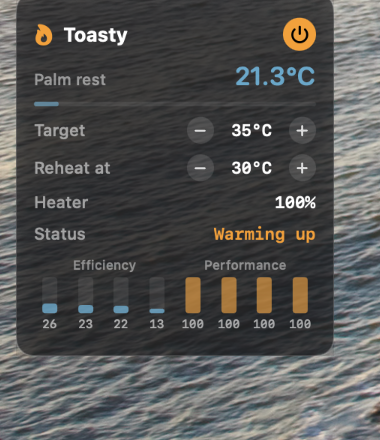
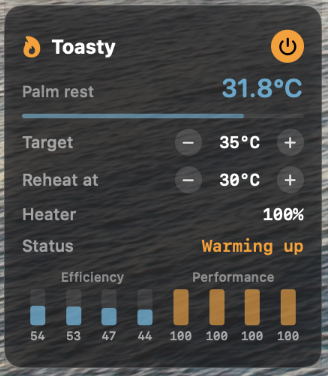
Resume an unfinished warm-up after a restart, new screenshot
A restart or update mid warm-up used to see a palm rest above the reheat
point and rest. Toasty now remembers the warm-up and carries on.
The README screenshot shows it warming up on the performance cores.

diff --git a/Sources/Warmer.swift b/Sources/Warmer.swift
@@ -32,7 +32,13 @@ final class Warmer: ObservableObject {
 
     /// Heat to the target at full power, then rest until the palm rest cools to `reheatAt`.
     private enum Phase { case warmingUp, resting, reheating }
-    private var phase = Phase.warmingUp { didSet { if phase != oldValue { log("\(phase)") } } }
+    private var phase = Phase.warmingUp {
+        didSet {
+            // Remembered so a restart or update carries on with an unfinished warm-up.
+            defaults.set(phase != .resting, forKey: "midWarmUp")
+            if phase != oldValue { log("\(phase)") }
+        }
+    }
 
     /// One line per state change in ~/Library/Logs/Toasty.log, to see later why it heated or not.
     private let logURL = FileManager.default.homeDirectoryForCurrentUser.appendingPathComponent("Library/Logs/Toasty.log")
@@ -91,7 +97,8 @@ final class Warmer: ObservableObject {
     var loginItemEnabled: Bool { SMAppService.mainApp.status == .enabled }
 
     /// `now` heats straight away (the ⏻ button); otherwise a warm Mac waits for the reheat point.
-    func start(now: Bool = false) {
+    func start(now: Bool = false, resuming: Bool = false) {
+        let now = now || (resuming && defaults.bool(forKey: "midWarmUp"))
         warmingUntil = holdMinutes > 0 ? Date().addingTimeInterval(Double(holdMinutes) * 60) : nil
         isWarming = true
         // Already warm from earlier use: wait until it cools to the reheat point.
@@ -104,6 +111,7 @@ final class Warmer: ObservableObject {
     }
 
     func stop() {
+        defaults.set(false, forKey: "midWarmUp")
         if isWarming { log("stop") }
         isWarming = false
         warmingUntil = nil

diff --git a/Sources/main.swift b/Sources/main.swift
@@ -31,7 +31,7 @@ final class AppDelegate: NSObject, NSApplicationDelegate, NSMenuDelegate {
         if CommandLine.arguments.contains("--heat-now") {
             warmer.start(now: true)
         } else if warmer.autoStart {
-            warmer.start()
+            warmer.start(resuming: true)
         }
     }
 
